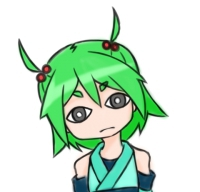
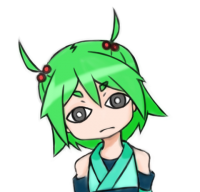
待機状態のポップアップ画像を変更

diff --git a/chrome_extension/popup.html b/chrome_extension/popup.html
@@ -19,7 +19,7 @@
 <div class="container">
     <div class="row">
         <p id="guide_message"></p>
-        <p id="idling_image"><img src="images/ugenchan.png" alt=""></p>
+        <p id="idling_image"><img src="images/ugenchan200.png" alt=""></p>
         <p id="running_image"><img src="images/ugenchan_watching200.png" alt=""></p>
         <div id="start_control">
             <div class="col-xs-12">

diff --git a/chrome_extension/javascripts/background.js b/chrome_extension/javascripts/background.js
@@ -167,7 +167,7 @@ function generateTweet(baseMessageGenerator) {
 
 function notificate(message, displaySeconds) {
     let notification = new Notification(message, {
-        icon: "images/ugenchan.png"
+        icon: "images/ugenchan200.png"
     });
     if (displaySeconds > 0) {
         setTimeout(() => {
